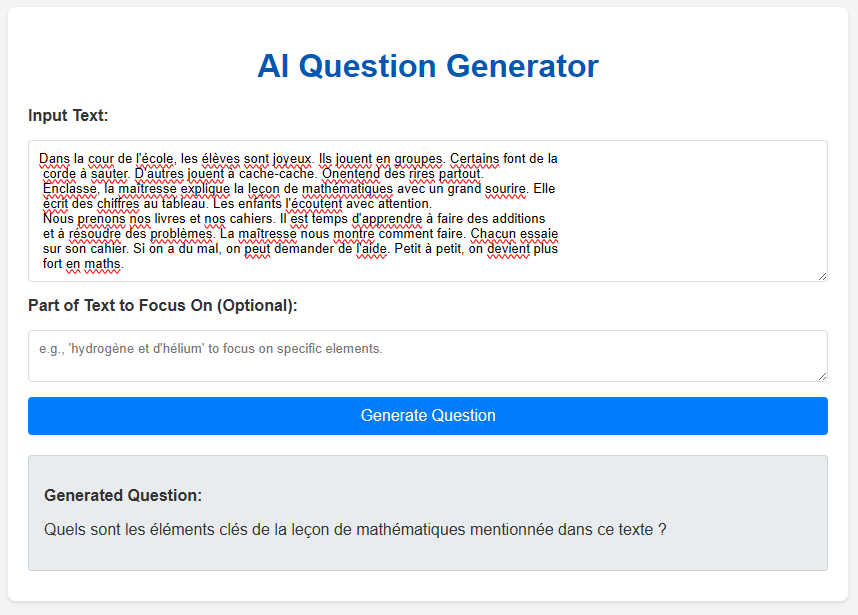
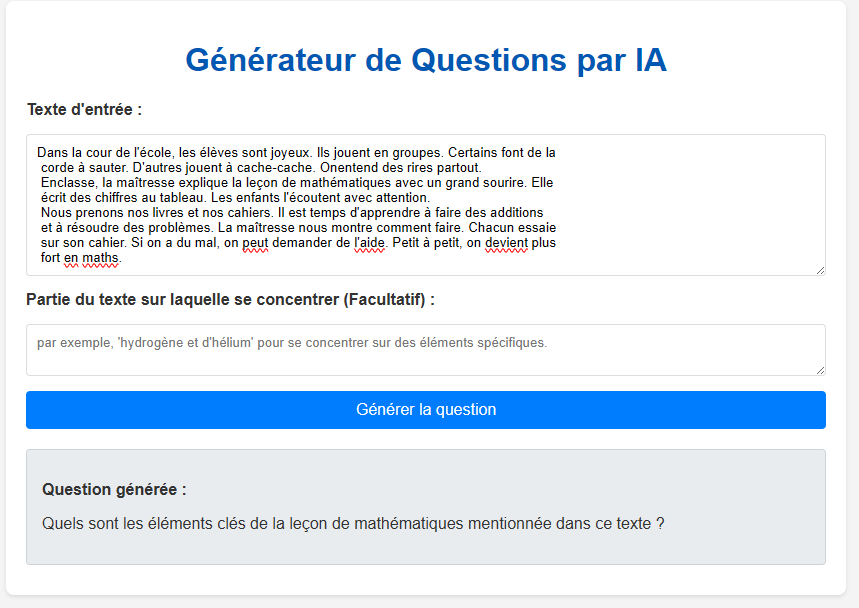
Generation question ouvert - v2

diff --git a/templates/index.html b/templates/index.html
@@ -1,9 +1,9 @@
 <!DOCTYPE html>
-<html lang="en">
+<html lang="fr">
 <head>
     <meta charset="UTF-8">
     <meta name="viewport" content="width=device-width, initial-scale=1.0">
-    <title>Question Generator</title>
+    <title>Générateur de Questions</title>
     <style>
         body {
             font-family: Arial, sans-serif;
@@ -66,18 +66,18 @@
 </head>
 <body>
     <div class="container">
-        <h1>AI Question Generator</h1>
+        <h1>Générateur de Questions par IA</h1>
         <form id="questionForm">
-            <label for="text">Input Text:</label>
-            <textarea id="text" name="text" rows="8" placeholder="Enter the text from which to generate a question." required></textarea>
+            <label for="text">Texte d'entrée :</label>
+            <textarea id="text" name="text" rows="8" placeholder="Entrez le texte à partir duquel générer une question." required></textarea>
 
-            <label for="focus_text">Part of Text to Focus On (Optional):</label>
-            <textarea id="focus_text" name="focus_text" rows="2" placeholder="e.g., 'hydrogène et d'hélium' to focus on specific elements."></textarea>
+            <label for="focus_text">Partie du texte sur laquelle se concentrer (Facultatif) :</label>
+            <textarea id="focus_text" name="focus_text" rows="2" placeholder="par exemple, 'hydrogène et d'hélium' pour se concentrer sur des éléments spécifiques."></textarea>
 
-            <button type="submit">Generate Question</button>
+            <button type="submit">Générer la question</button>
         </form>
         <div id="result">
-            <p>Generated Question will appear here...</p>
+            <p>La question générée apparaîtra ici...</p>
         </div>
         <div id="error" class="error"></div>
     </div>
@@ -91,7 +91,7 @@
             const resultDiv = document.getElementById('result');
             const errorDiv = document.getElementById('error');
 
-            resultDiv.innerHTML = '<p>Generating...</p>';
+            resultDiv.innerHTML = '<p>Génération en cours...</p>';
             errorDiv.textContent = '';
 
             try {
@@ -111,20 +111,20 @@
                 if (response.ok) {
                     if (data.error) {
                         errorDiv.textContent = `Error: ${data.error}`;
-                        resultDiv.innerHTML = '<p>Generated Question will appear here...</p>';
+                        resultDiv.innerHTML = '<p>La question générée apparaîtra ici...</p>';
                     } else if (data.question) {
-                        resultDiv.innerHTML = `<p><strong>Generated Question:</strong></p><p>${data.question}</p>`;
+                        resultDiv.innerHTML = `<p><strong>Question générée :</strong></p><p>${data.question}</p>`;
                     } else {
-                        errorDiv.textContent = `Error: Unexpected response format.`;
-                        resultDiv.innerHTML = '<p>Generated Question will appear here...</p>';
+                        errorDiv.textContent = `Erreur : Format de réponse inattendu.`;
+                        resultDiv.innerHTML = '<p>La question générée apparaîtra ici...</p>';
                     }
                 } else {
-                    errorDiv.textContent = `Error: ${data.error || 'Something went wrong.'}`;
-                    resultDiv.innerHTML = '<p>Generated Question will appear here...</p>';
+                    errorDiv.textContent = `Erreur : ${data.error || 'Quelque chose s\'est mal passé.'}`;
+                    resultDiv.innerHTML = '<p>La question générée apparaîtra ici...</p>';
                 }
             } catch (e) {
-                errorDiv.textContent = `Network error: ${e.message}`;
-                resultDiv.innerHTML = '<p>Generated Question will appear here...</p>';
+                errorDiv.textContent = `Erreur réseau : ${e.message}`;
+                resultDiv.innerHTML = '<p>La question générée apparaîtra ici...</p>';
             }
         });
     </script>

diff --git a/app.py b/app.py
@@ -9,38 +9,38 @@ load_dotenv() # Load environment variables from .env
 # Define the path to your GGUF model file
 MODEL_PATH = os.getenv('MODEL_PATH', "models/finetuned-qwen2.5-0.5B_instruct_finetuned_fr.q8_0.gguf")
 
-st.set_page_config(page_title="Streamlit Question Generator", layout="centered")
+st.set_page_config(page_title="Générateur de Questions Streamlit", layout="centered")
 
-st.title("AI Question Generator (Streamlit)")
+st.title("Générateur de Questions par IA (Streamlit)")
 
-st.write("Enter text to generate a question based on it using a local LLM.")
+st.write("Entrez du texte pour générer une question basée sur celui-ci à l'aide d'un LLM local.")
 
 # Input field for main text
 input_text = st.text_area(
-    "Input Text:",
+    "Texte d'entrée :",
     "Le soleil est une étoile au centre de notre système solaire. Il est composé principalement d'hydrogène et d'hélium.",
     height=250,
-    help="Provide the text from which to generate a question."
+    help="Fournissez le texte à partir duquel générer une question."
 )
 
 # Input field for focus text
 focus_text = st.text_area(
-    "Part of Text to Focus On (Optional):",
+    "Partie du texte sur laquelle se concentrer (Facultatif) :",
     "hydrogène et d'hélium",
     height=100,
-    help="Specify a part of the text for the question to focus on."
+    help="Spécifiez une partie du texte sur laquelle la question doit se concentrer."
 )
 
-if st.button("Generate Question"):
+if st.button("Générer la question"):
     if not input_text:
-        st.error("Please provide text input.")
+        st.error("Veuillez fournir un texte en entrée.")
     else:
         # Check if the model file exists
         if not os.path.exists(MODEL_PATH):
-            st.error(f"Error: Model file not found at {MODEL_PATH}")
-            st.warning("Please ensure 'models/finetuned-qwen2.5-0.5B_instruct_finetuned_fr.q8_0.gguf' exists in your project directory.")
+            st.error(f"Erreur : Fichier modèle introuvable à {MODEL_PATH}")
+            st.warning("Veuillez vous assurer que 'models/finetuned-qwen2.5-0.5B_instruct_finetuned_fr.q8_0.gguf' existe dans le répertoire de votre projet.")
         else:
-            with st.spinner("Generating question..."):
+            with st.spinner("Génération de la question..."):
                 try:
                     parsed_result = generate_and_parse_question(input_text, MODEL_PATH, focus_text) # Pass focus_text
                     
@@ -48,25 +48,25 @@ if st.button("Generate Question"):
                         try:
                             parsed_data = json.loads(parsed_result)
                         except json.JSONDecodeError:
-                            st.error(f"Generator returned invalid JSON: {parsed_result}")
-                            parsed_data = {"error": "Invalid JSON response from generator."}
+                            st.error(f"Le générateur a renvoyé un JSON invalide : {parsed_result}")
+                            parsed_data = {"error": "Réponse JSON invalide du générateur."}
                     else:
                         parsed_data = parsed_result # Assume it's already a dict/json object
 
                     if "error" in parsed_data:
-                        st.error(f"Error from generator: {parsed_data['error']}")
+                        st.error(f"Erreur du générateur : {parsed_data['error']}")
                     elif "Question" in parsed_data: # Changed to "Question" (capital Q)
-                        st.subheader("Generated Question:")
+                        st.subheader("Question générée :")
                         st.success(parsed_data["Question"]) # Access with capital Q
                     else:
-                        st.error("Generated question not found in response.")
+                        st.error("Question générée introuvable dans la réponse.")
 
                 except Exception as e:
-                    st.error(f"An error occurred during generation: {e}")
+                    st.error(f"Une erreur est survenue pendant la génération : {e}")
 
 st.markdown(
     """
     ---
-    *This application uses a local LLM (Llama-CPP) to generate questions.*
+    *Cette application utilise un LLM local (Llama-CPP) pour générer des questions.*
     """
 )
